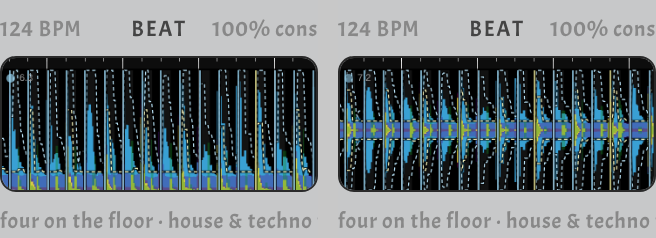
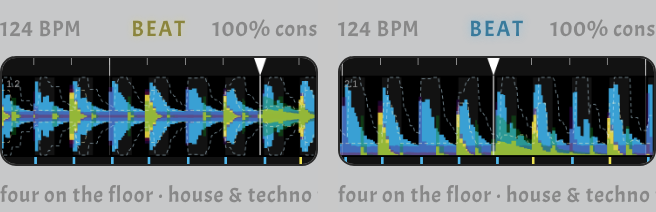
Beat HUD: 4 s view with wheel zoom, hits on a bottom strip, title glows on a hit
4 s shown by default, the wheel zooms from 2 to 16 s and a double-click resets it. 120 tall, a taller grid ruler, and
mirrored by default (a click still flips it). Hits move off the waveform onto a strip along the bottom, and the Beat title
glows in the hitting band's color in place of the lamp. Thresholds are thinner and fainter, and the tooltip is shorter.

Claude-Session: https://claude.ai/code/session_01D1Q35exZjA9yrg454Trpey

diff --git a/src/components/huds/BeatHud.tsx b/src/components/huds/BeatHud.tsx
@@ -2,14 +2,29 @@ import React, { useCallback, useEffect, useRef, useState } from 'react'
 import { useInfo } from '../config/info/info'
 import './BeatHud.css'
 
-import { DEFAULT_ENABLED_BANDS } from '../../audioanalysis/onset-bands'
+import { DEFAULT_ENABLED_BANDS, ONSET_BANDS } from '../../audioanalysis/onset-bands'
 import { estimateTempo } from '../../audioanalysis/tempo'
 import { subscribeUiTick } from '../../utils/uiTicker'
-import { DEFAULT_VIEW_MS, WAVEFORM_H, WAVEFORM_W, WaveformTrack, WaveformView } from './waveformTrack'
+import { bandColor } from './bandColors'
+import { DEFAULT_VIEW_MS, MIN_VIEW_MS, WAVEFORM_H, WAVEFORM_HISTORY_MS, WAVEFORM_W, WaveformTrack, WaveformView } from './waveformTrack'
 
 // The tempo moves slowly, so it is re-read twice a second, and only drawn again when the number shown changes.
 const TEMPO_UPDATE_INTERVAL_MS = 500
 const MIRRORED_KEY = 'beatHudMirrored'
+// How far one notch of the wheel zooms (a notch is a deltaY of about 100): about 20%.
+const ZOOM_PER_DELTA = 0.002
+// A click waits this long before switching the view, so the two clicks of a double-click (which resets the zoom) do not switch it twice.
+const CLICK_DELAY_MS = 250
+// On a hit the Beat title glows in the color of the band that set it off, fading in a few steps. The styles are made once per band and step,
+// and set on the element directly, so a hit does not re-render anything.
+const GLOW_STEPS = 4
+type GlowStyle = { color: string; textShadow: string }
+const GLOW_STYLES: GlowStyle[][] = ONSET_BANDS.map((_, band) =>
+  Array.from({ length: GLOW_STEPS + 1 }, (__, step) => ({
+    color: step === 0 ? '' : bandColor(band, 50, 0.4 + (0.6 * step) / GLOW_STEPS),
+    textShadow: step === 0 ? '' : `0 0 ${2 + 2 * step}px ${bandColor(band, 60, step / GLOW_STEPS)}`,
+  })))
+
 // The BPM comes from the tempo tracker (steady, read from the onset bands) and the consistency from the last 12 s of detected beats. The rhythm
 // name comes held from the main window (RhythmLabeler, window.getRhythmLabel), so it is the same in a popped-out config window.
 type TempoShown = { bpm: number | null; consistency: number | null }
@@ -21,12 +36,12 @@ const sameTempo = (a: TempoShown, b: TempoShown): boolean =>
 // The visualizer lives in the main window; a popped-out config window reads it through window.opener.
 const mainWindow = (): Window => window.opener ?? window
 
-// Storage can be blocked (a private window, cleared site data); the view then just starts unmirrored.
+// Storage can be blocked (a private window, cleared site data); the view then just starts mirrored.
 const readMirrored = (): boolean => {
   try {
-    return window.localStorage.getItem(MIRRORED_KEY) === 'true'
+    return window.localStorage.getItem(MIRRORED_KEY) !== 'false'
   } catch {
-    return false
+    return true
   }
 }
 
@@ -44,12 +59,27 @@ export const BeatHud = (): React.ReactElement => {
   const [tempo, setTempo] = useState<TempoShown>({ bpm: null, consistency: null })
   const [rhythm, setRhythm] = useState('')
   const mirroredRef = useRef(readMirrored())
+  const viewMsRef = useRef(DEFAULT_VIEW_MS)
   const redrawRef = useRef<(() => void) | null>(null)
+  const labelRef = useRef<HTMLSpanElement>(null)
+  const clickTimerRef = useRef<ReturnType<typeof setTimeout> | null>(null)
 
   // A click switches between the mirrored view and the one growing up from the bottom, and draws it right away.
-  const toggleMirrored = useCallback((): void => {
-    mirroredRef.current = !mirroredRef.current
-    saveMirrored(mirroredRef.current)
+  const handleClick = useCallback((): void => {
+    if (clickTimerRef.current !== null) clearTimeout(clickTimerRef.current)
+    clickTimerRef.current = setTimeout(() => {
+      clickTimerRef.current = null
+      mirroredRef.current = !mirroredRef.current
+      saveMirrored(mirroredRef.current)
+      redrawRef.current?.()
+    }, CLICK_DELAY_MS)
+  }, [])
+
+  // A double-click puts the zoom back to the default, and cancels the click that came with it.
+  const handleDoubleClick = useCallback((): void => {
+    if (clickTimerRef.current !== null) clearTimeout(clickTimerRef.current)
+    clickTimerRef.current = null
+    viewMsRef.current = DEFAULT_VIEW_MS
     redrawRef.current?.()
   }, [])
 
@@ -71,6 +101,8 @@ export const BeatHud = (): React.ReactElement => {
     }
 
     const track = new WaveformTrack()
+    let glowStep = 0
+    let glowBand = 0
     const view: WaveformView = { now: 0, viewMs: DEFAULT_VIEW_MS, enabled: DEFAULT_ENABLED_BANDS, ignoreMs: 0, mirrored: mirroredRef.current }
     const draw = (): void => {
       const source = mainWindow()
@@ -83,11 +115,34 @@ export const BeatHud = (): React.ReactElement => {
       view.enabled = source.enabledFreqBands ?? DEFAULT_ENABLED_BANDS
       view.ignoreMs = source.config.audio.ignoreTime.value
       view.mirrored = mirroredRef.current
+      view.viewMs = viewMsRef.current
       track.draw(ctx, view)
+
+      const step = Math.ceil(track.glow(view.now) * GLOW_STEPS)
+      const band = track.glowBand()
+      const label = labelRef.current
+      if (!label || (step === glowStep && (step === 0 || band === glowBand))) return
+      glowStep = step
+      glowBand = band
+      const style = GLOW_STYLES[band]?.[step]
+      label.style.color = style?.color ?? ''
+      label.style.textShadow = style?.textShadow ?? ''
     }
     redrawRef.current = draw
 
-    return subscribeUiTick(draw, canvas)
+    // The wheel zooms the time shown. It is a native listener, not React's onWheel, which is passive and so cannot stop the column scrolling.
+    const zoom = (event: WheelEvent): void => {
+      event.preventDefault()
+      viewMsRef.current = Math.min(WAVEFORM_HISTORY_MS, Math.max(MIN_VIEW_MS, viewMsRef.current * Math.exp(event.deltaY * ZOOM_PER_DELTA)))
+      draw()
+    }
+    canvas.addEventListener('wheel', zoom, { passive: false })
+    const unsubscribe = subscribeUiTick(draw, canvas)
+    return () => {
+      canvas.removeEventListener('wheel', zoom)
+      unsubscribe()
+      if (clickTimerRef.current !== null) clearTimeout(clickTimerRef.current)
+    }
   }, [])
 
   return (
@@ -96,13 +151,13 @@ export const BeatHud = (): React.ReactElement => {
         <span className='beat-hud-bpm' {...info('Tempo read from the last 12 seconds of the onset bands. It is held steady: it follows small drifts, changes only once a different tempo has clearly taken over for a couple of seconds, and holds through a breakdown with no beat.')}>
           {tempo.bpm !== null ? `${Math.round(tempo.bpm)} BPM` : '— BPM'}
         </span>
-        <span className='beat-hud-label'>Beat</span>
+        <span ref={labelRef} className='beat-hud-label'>Beat</span>
         <span className='beat-hud-consistency' {...info('How steady the detected beats are: the share of gaps between them that are one beat (or one step of the rhythm grid) long, give or take 15%. Missed or extra beats lower it.')}>
           {tempo.consistency !== null ? `${Math.round(tempo.consistency * 100)}% cons` : '—'}
         </span>
       </div>
-      <div className='beat-hud' {...info('The last 8 seconds of each band, bass outermost and air innermost; the bands that cannot set off a beat are dimmed. The dashed lines are what each band had to pass to count as a hit, and a colored line is a hit, in the color of the band that set it off. The ruler on top is the beat grid: short ticks are beats, tall ticks with a faint line are bar lines, and a marker with a stronger line is an 8-bar phrase line, shown once the grid is sure of them. The number is the bar of the phrase, then the beat of the bar. Click to switch between the mirrored view and the one growing up from the bottom.')}>
-        <canvas ref={canvasRef} width={WAVEFORM_W} height={WAVEFORM_H} className='beat-hud-canvas' onClick={toggleMirrored} />
+      <div className='beat-hud' {...info('Each band over time, dimmed if it cannot trigger a beat. Dashed: the level a hit must pass. Bottom marks: hits, in the band\'s color (the title glows with each). Top ruler: beats, bars and 8-bar phrases. Scroll to zoom, double-click to reset, click to flip mirrored.')}>
+        <canvas ref={canvasRef} width={WAVEFORM_W} height={WAVEFORM_H} className='beat-hud-canvas' onClick={handleClick} onDoubleClick={handleDoubleClick} />
       </div>
       <span className='beat-hud-feel' {...info('The rhythm the drums play, read from the kick, snare and hat bands: a kick on every beat (four on the floor) or a broken kick (breakbeat), or, when it is sure, the drum and bass kick on 1 and the "and" of 3 (two-step), with the tempo range it is played at. It only names a rhythm it is sure of, so it is often blank: in a breakdown, without a clear beat, or for rhythms it cannot tell apart. A name shows after 2 seconds and clears after 3.')}>
         {rhythm}

diff --git a/src/components/huds/waveformTrack.ts b/src/components/huds/waveformTrack.ts
@@ -8,10 +8,11 @@ import { bandColor } from './bandColors'
 // (scripts/section-eval/bench-cpu.mts). Everything is allocated once: a tick only writes into typed arrays and issues draw calls.
 
 export const WAVEFORM_W = 360
-export const WAVEFORM_H = 150
-// How much is kept, and how much is shown unless the view is zoomed: 8 s is about four bars at dance tempos.
+export const WAVEFORM_H = 120
+// How much is kept, and how much is shown: 4 s (two bars at dance tempos) unless zoomed, between MIN_VIEW_MS and the whole history.
 export const WAVEFORM_HISTORY_MS = 16000
-export const DEFAULT_VIEW_MS = 8000
+export const DEFAULT_VIEW_MS = 4000
+export const MIN_VIEW_MS = 2000
 
 const BANDS = ONSET_BANDS.length
 // Fine enough that a 4 s view still has more than one column per pixel.
@@ -20,9 +21,12 @@ const COLUMNS = WAVEFORM_HISTORY_MS / COLUMN_MS
 // A gap between samples longer than this is a real gap (the HUD was off screen, the tab was hidden), so it is left empty. A shorter one is
 // a slow frame, and the sample is held across it so the waveform has no holes.
 const HOLD_MS = 250
-const RULER_H = 12
+const RULER_H = 20
+// Hits are marked on a strip along the bottom, so nothing cuts through the waveform but the grid's bar and phrase lines.
+const HIT_STRIP_H = 8
 const PLOT_TOP = RULER_H + 2
-const PLOT_H = WAVEFORM_H - PLOT_TOP
+const PLOT_BOTTOM = WAVEFORM_H - HIT_STRIP_H - 2
+const PLOT_H = PLOT_BOTTOM - PLOT_TOP
 const MID = PLOT_TOP + PLOT_H / 2
 // A column is the band's level against its own recent loudness (as the Frequency HUD's bars are), so every band uses the full height.
 const HEADROOM = 1.1
@@ -30,20 +34,18 @@ const HEADROOM = 1.1
 const BAND_SCALE = ONSET_BANDS.map((_, band) => 1 - band * 0.11)
 const ENABLED_FILLS = ONSET_BANDS.map((_, band) => bandColor(band, 58, 0.9))
 const DISABLED_FILLS = ONSET_BANDS.map((_, band) => bandColor(band, 30, 0.35))
-// Hits are lighter than the fills and sit on a dark edge, so a bass hit still shows over the bass waveform.
-const HIT_COLORS = ONSET_BANDS.map((_, band) => bandColor(band, 78))
-const HIT_EDGE = 'rgba(0, 0, 0, 0.75)'
-// A threshold line is drawn light over a dark edge, so it shows over its own band's fill as well as over the black.
-const TRIGGER_COLORS = ONSET_BANDS.map((_, band) => bandColor(band, 85))
-const TRIGGER_EDGE = 'rgba(0, 0, 0, 0.7)'
+const HIT_COLORS = ONSET_BANDS.map((_, band) => bandColor(band, 62))
+// Thresholds are faint and thin, there to check a hit against rather than to read at a glance.
+const TRIGGER_COLORS = ONSET_BANDS.map((_, band) => bandColor(band, 88, 0.55))
 const DASH = [4, 3]
 const NO_DASH: number[] = []
 const IGNORE_FILL = 'rgba(255, 255, 255, 0.07)'
-const RULER_FILL = 'rgba(255, 255, 255, 0.05)'
+const RULER_FILL = 'rgba(255, 255, 255, 0.07)'
 const LINE_COLOR = '#fff'
 const LABEL_COLOR = '#999'
 const LABEL_FONT = '11px sans-serif'
-const LAMP_FADE_MS = 200
+// How long the Beat title glows after a hit.
+const GLOW_FADE_MS = 200
 const HIT_CAPACITY = 256
 
 // The grid's lines are only drawn once the grid is fairly sure of them: below LOW they are not drawn as bar or phrase lines at all, and they
@@ -51,8 +53,8 @@ const HIT_CAPACITY = 256
 const CONFIDENCE_LOW = 0.2
 const CONFIDENCE_HIGH = 0.5
 const BEAT_CAPACITY = 128
-const BEAT_TICK_PX = 4
-const PHRASE_MARK_PX = 5
+const BEAT_TICK_PX = 8
+const PHRASE_MARK_PX = 7
 
 export const confidenceAlpha = (confidence: number): number =>
   Math.max(0, Math.min(1, (confidence - CONFIDENCE_LOW) / (CONFIDENCE_HIGH - CONFIDENCE_LOW)))
@@ -64,7 +66,7 @@ const BEAT_ONLY_LABELS = Array.from({ length: 4 }, (_, beat) => `?.${beat + 1}`)
 /** The canvas calls the track makes, so the bench can time them without a browser. */
 export type WaveformContext = Pick<
   CanvasRenderingContext2D,
-  | 'clearRect' | 'fillRect' | 'beginPath' | 'rect' | 'fill' | 'moveTo' | 'lineTo' | 'closePath' | 'stroke' | 'arc' | 'fillText'
+  | 'clearRect' | 'fillRect' | 'beginPath' | 'rect' | 'fill' | 'moveTo' | 'lineTo' | 'closePath' | 'stroke' | 'fillText'
   | 'setLineDash' | 'fillStyle' | 'strokeStyle' | 'lineWidth' | 'globalAlpha' | 'font' | 'textBaseline'
 >
 
@@ -144,7 +146,7 @@ export class WaveformTrack {
     this.drawTriggers(ctx, view)
     this.drawHits(ctx, view)
     this.drawGrid(ctx, view)
-    this.drawLamp(ctx, view)
+    this.drawPlace(ctx)
   }
 
   private clearColumn = (column: number): void => {
@@ -217,7 +219,7 @@ export class WaveformTrack {
         if (h < 0.5) continue
         const x = this.toX(g * COLUMN_MS, view)
         if (view.mirrored) ctx.rect(x, MID - h, width, h * 2)
-        else ctx.rect(x, WAVEFORM_H - h, width, h)
+        else ctx.rect(x, PLOT_BOTTOM - h, width, h)
       }
       ctx.fill()
     }
@@ -243,35 +245,40 @@ export class WaveformTrack {
             continue
           }
           const h = trigger * scale
-          const y = view.mirrored ? (side === 0 ? MID - h : MID + h) : WAVEFORM_H - h
+          const y = view.mirrored ? (side === 0 ? MID - h : MID + h) : PLOT_BOTTOM - h
           const x = this.toX(g * COLUMN_MS, view) + halfStep
           if (drawing) ctx.lineTo(x, y)
           else ctx.moveTo(x, y)
           drawing = true
         }
       }
-      ctx.setLineDash(NO_DASH)
-      ctx.strokeStyle = TRIGGER_EDGE
-      ctx.lineWidth = 3
-      ctx.stroke()
       ctx.setLineDash(DASH)
       ctx.strokeStyle = TRIGGER_COLORS[b]!
-      ctx.lineWidth = 1.25
+      ctx.lineWidth = 1
       ctx.stroke()
     }
     ctx.setLineDash(NO_DASH)
   }
 
-  // A hit is a line through the plot in the color of the band that set it off.
+  // A hit is a mark on the bottom strip in the color of the band that set it off.
   private drawHits = (ctx: WaveformContext, view: WaveformView): void => {
+    ctx.fillStyle = RULER_FILL
+    ctx.fillRect(0, WAVEFORM_H - HIT_STRIP_H, WAVEFORM_W, HIT_STRIP_H)
     for (let k = 0, at = this.hitSlot(0, view.now, view.viewMs); at >= 0; at = this.hitSlot(++k, view.now, view.viewMs)) {
-      const x = Math.round(this.toX(this.hitTimes[at]!, view))
-      ctx.fillStyle = HIT_EDGE
-      ctx.fillRect(x - 2, PLOT_TOP, 4, PLOT_H)
       ctx.fillStyle = HIT_COLORS[this.hitBands[at]!]!
-      ctx.fillRect(x - 0.75, PLOT_TOP, 1.5, PLOT_H)
+      ctx.fillRect(Math.round(this.toX(this.hitTimes[at]!, view)) - 1, WAVEFORM_H - HIT_STRIP_H, 3, HIT_STRIP_H)
     }
   }
+
+  /** How bright the Beat title should glow, 1 on the frame of a hit down to 0 GLOW_FADE_MS later. */
+  glow = (now: number): number => {
+    if (this.hitCount === 0) return 0
+    const last = (this.hitHead - 1 + HIT_CAPACITY) % HIT_CAPACITY
+    return Math.max(0, 1 - (now - this.hitTimes[last]!) / GLOW_FADE_MS)
+  }
+
+  /** The band that set off the last hit (0 before any). */
+  glowBand = (): number => (this.hitCount === 0 ? 0 : this.hitBands[(this.hitHead - 1 + HIT_CAPACITY) % HIT_CAPACITY]!)
 
   // The grid lives on the ruler along the top, so it never reads as a hit: beats are short ticks, bar lines tick the ruler's whole height with
   // a faint line down through the plot, and 8-bar phrase lines add a marker and a stronger line. A bar or phrase line fades with the grid's
@@ -299,34 +306,25 @@ export class WaveformTrack {
         ctx.closePath()
         ctx.fill()
         ctx.globalAlpha = 0.6 * phrase
-        ctx.fillRect(x - 1, RULER_H, 2, WAVEFORM_H - RULER_H)
+        ctx.fillRect(x - 1, RULER_H, 2, PLOT_BOTTOM - RULER_H)
       } else if (bar > 0) {
         ctx.globalAlpha = 0.85 * bar
         ctx.fillRect(x, 0, 1, RULER_H)
         ctx.globalAlpha = 0.22 * bar
-        ctx.fillRect(x, RULER_H, 1, WAVEFORM_H - RULER_H)
+        ctx.fillRect(x, RULER_H, 1, PLOT_BOTTOM - RULER_H)
       }
     }
     ctx.globalAlpha = 1
   }
 
-  // Beat lamp, colored by the band that last fired, and where the grid has the music: bar of the phrase, then beat of the bar.
-  private drawLamp = (ctx: WaveformContext, view: WaveformView): void => {
-    const last = this.hitCount > 0 ? (this.hitHead - 1 + HIT_CAPACITY) % HIT_CAPACITY : -1
-    const lamp = last >= 0 ? Math.max(0, 1 - (view.now - this.hitTimes[last]!) / LAMP_FADE_MS) : 0
-    ctx.globalAlpha = 0.15 + lamp * 0.85
-    ctx.fillStyle = HIT_COLORS[last >= 0 ? this.hitBands[last]! : 0]!
-    ctx.beginPath()
-    ctx.arc(10, PLOT_TOP + 9, 5, 0, Math.PI * 2)
-    ctx.fill()
-    ctx.globalAlpha = 1
-
+  // Where the grid has the music: bar of the phrase, then beat of the bar.
+  private drawPlace = (ctx: WaveformContext): void => {
     const label = this.placeLabel()
     if (label === null) return
     ctx.fillStyle = LABEL_COLOR
     ctx.font = LABEL_FONT
     ctx.textBaseline = 'middle'
-    ctx.fillText(label, 20, PLOT_TOP + 9)
+    ctx.fillText(label, 5, PLOT_TOP + 8)
   }
 
   private placeLabel = (): string | null => {

diff --git a/src/components/huds/waveformTrack.test.ts b/src/components/huds/waveformTrack.test.ts
@@ -11,7 +11,7 @@ const recorder = (): { ctx: WaveformContext; rects: Rect[]; strokes: () => numbe
   let strokes = 0
   const noop = (): void => {}
   const ctx: WaveformContext = {
-    clearRect: noop, beginPath: noop, rect: noop, fill: noop, moveTo: noop, lineTo: noop, closePath: noop, arc: noop, fillText: noop, setLineDash: noop,
+    clearRect: noop, beginPath: noop, rect: noop, fill: noop, moveTo: noop, lineTo: noop, closePath: noop, fillText: noop, setLineDash: noop,
     fillStyle: '', strokeStyle: '', lineWidth: 1, globalAlpha: 1, font: '', textBaseline: 'alphabetic',
     stroke: (): void => {
       strokes++
@@ -35,8 +35,8 @@ const sample = (t: number, beatBand: number | null = null): BeatSample => ({
   beatBand,
 })
 
-// Everything the grid draws below the ruler is a full-height line from its bottom edge to the plot's bottom.
-const gridLines = (rects: Rect[]): Rect[] => rects.filter(({ y, h, fill }) => fill === '#fff' && y > 0 && y + h === WAVEFORM_H)
+// Everything the grid draws below the ruler is a line from the ruler's bottom edge down through the plot.
+const gridLines = (rects: Rect[]): Rect[] => rects.filter(({ y, h, fill }) => fill === '#fff' && y > 0 && h > WAVEFORM_H / 2)
 
 describe('WaveformTrack', () => {
   it('draws a sure phrase line wide, a sure bar line thin, and an unsure one as a plain beat', () => {
@@ -48,7 +48,7 @@ describe('WaveformTrack', () => {
     track.draw(ctx, view(6000))
     expect(gridLines(rects).map(({ w }) => w).sort()).toEqual([1, 2])
     // Every beat has its tick on the ruler, confident or not.
-    expect(rects.filter(({ y, h, w }) => y === 0 && h === 4 && w === 1)).toHaveLength(3)
+    expect(rects.filter(({ y, h, w }) => y === 0 && h === 8 && w === 1)).toHaveLength(3)
   })
 
   it('records each beat once, however many ticks see it', () => {
@@ -56,7 +56,7 @@ describe('WaveformTrack', () => {
     for (let i = 0; i < 5; i++) track.recordGrid(state(1000, 2, 1, 0.9))
     const { ctx, rects } = recorder()
     track.draw(ctx, view(2000))
-    expect(rects.filter(({ y, h }) => y === 0 && h === 4)).toHaveLength(1)
+    expect(rects.filter(({ y, h }) => y === 0 && h === 8)).toHaveLength(1)
   })
 
   it('draws each hit once in its band color, and thresholds only for the bands that can trigger', () => {
@@ -67,9 +67,14 @@ describe('WaveformTrack', () => {
     track.ingest(samples)
     const { ctx, rects, strokes } = recorder()
     track.draw(ctx, view(1100))
-    const hits = rects.filter(({ w, fill }) => w === 1.5 && fill.startsWith('hsla'))
+    // A hit is a mark on the strip along the bottom, not a line through the waveform.
+    const hits = rects.filter(({ w, fill }) => w === 3 && fill.startsWith('hsla'))
     expect(hits).toHaveLength(1)
-    // Two enabled bands, each a dark edge and the dashed line over it.
-    expect(strokes()).toBe(4)
+    expect(hits[0]!.y + hits[0]!.h).toBe(WAVEFORM_H)
+    expect(hits[0]!.h).toBeLessThan(WAVEFORM_H / 4)
+    expect(track.glow(1016)).toBe(1)
+    expect(track.glowBand()).toBe(3)
+    // One dashed threshold per enabled band.
+    expect(strokes()).toBe(2)
   })
 })

diff --git a/src/components/huds/BeatHud.css b/src/components/huds/BeatHud.css
@@ -10,6 +10,7 @@
 
 .beat-hud-label {
   text-align: center;
+  transition: color 60ms linear, text-shadow 60ms linear;
   font-size: 11px;
   text-transform: uppercase;
   letter-spacing: 0.08em;
